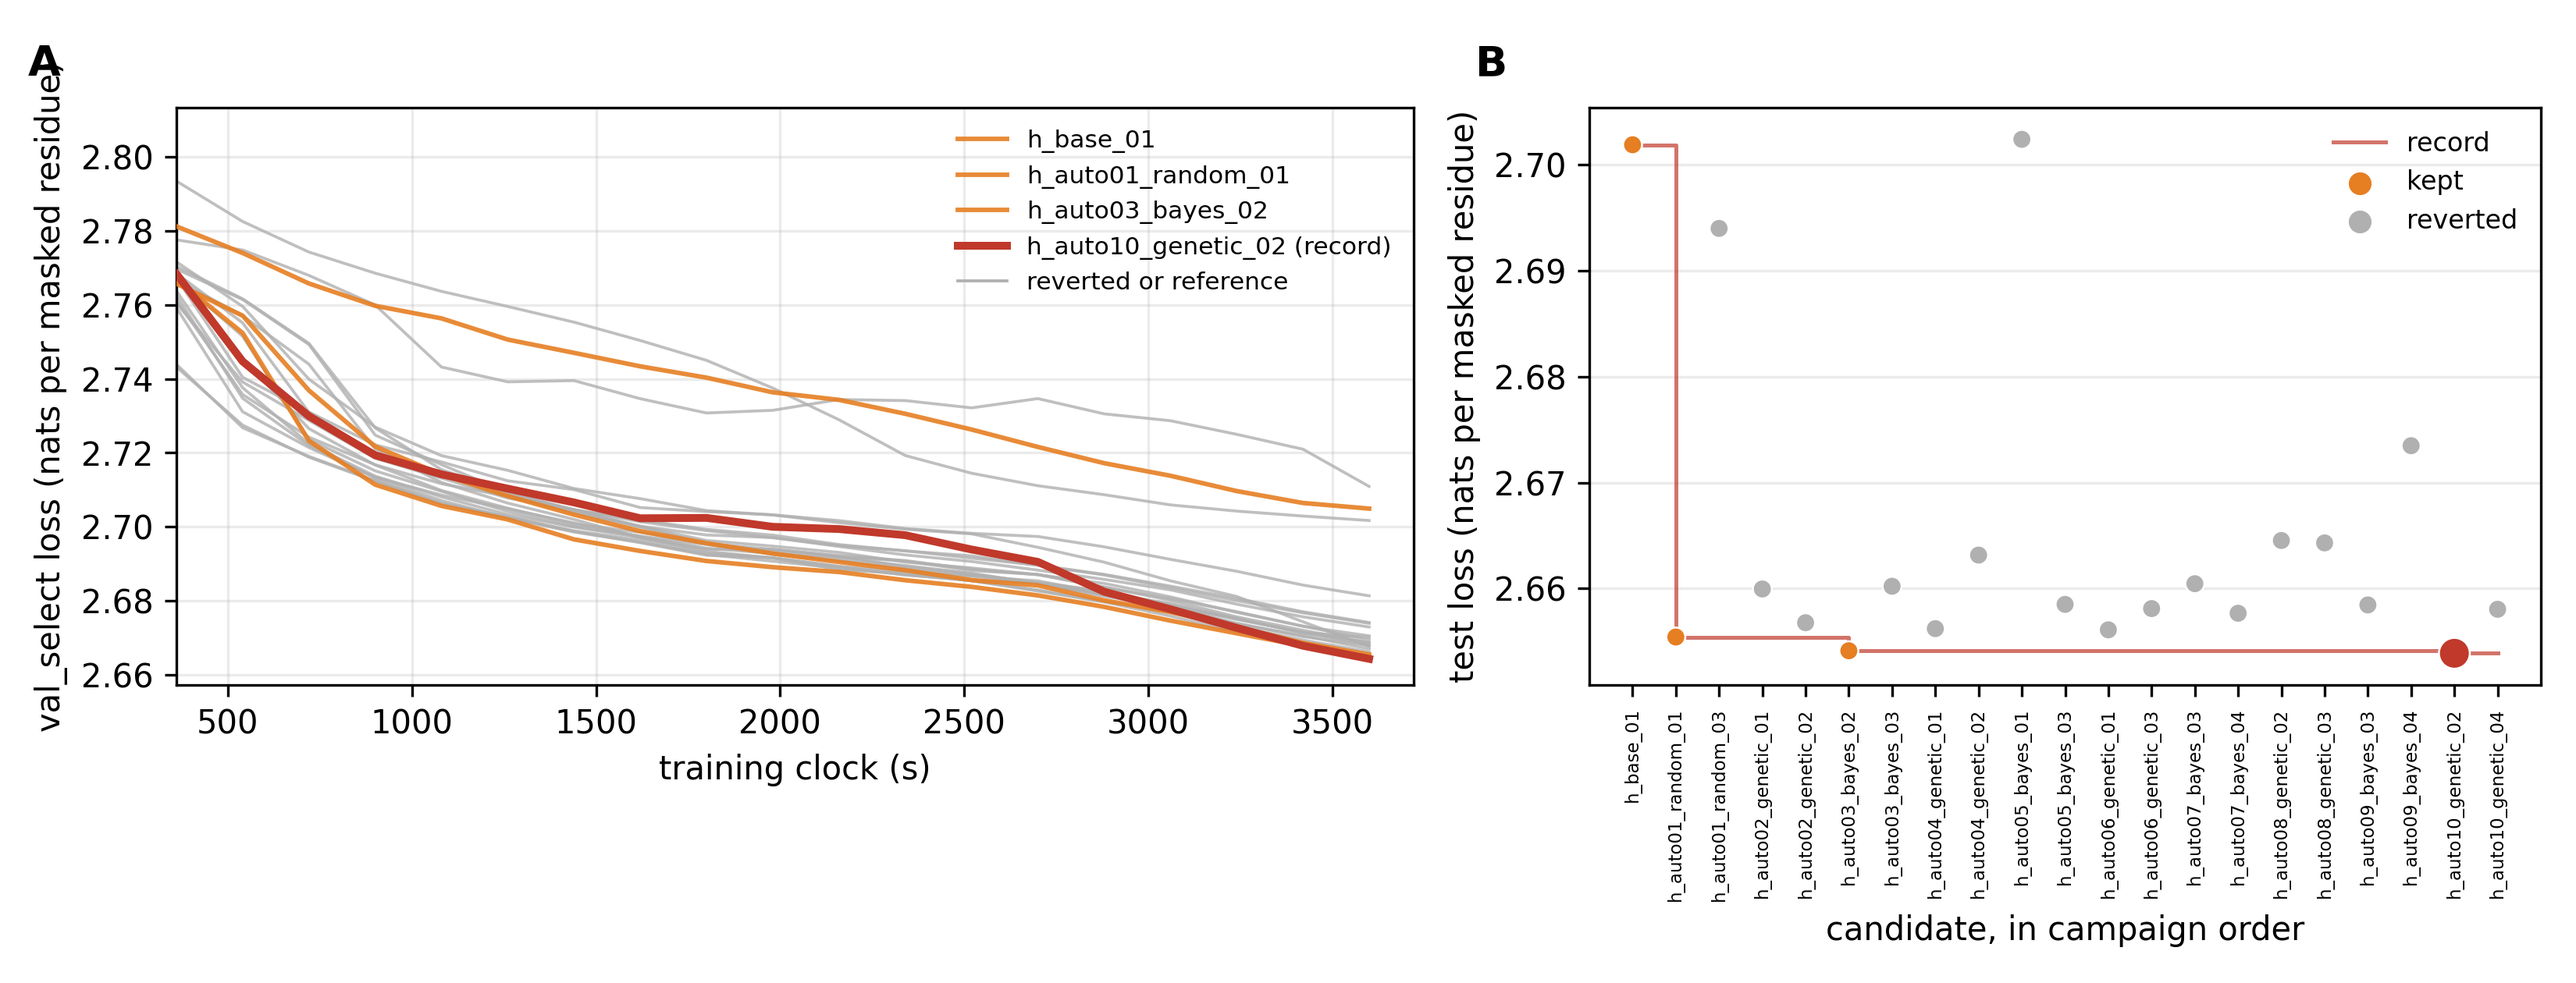
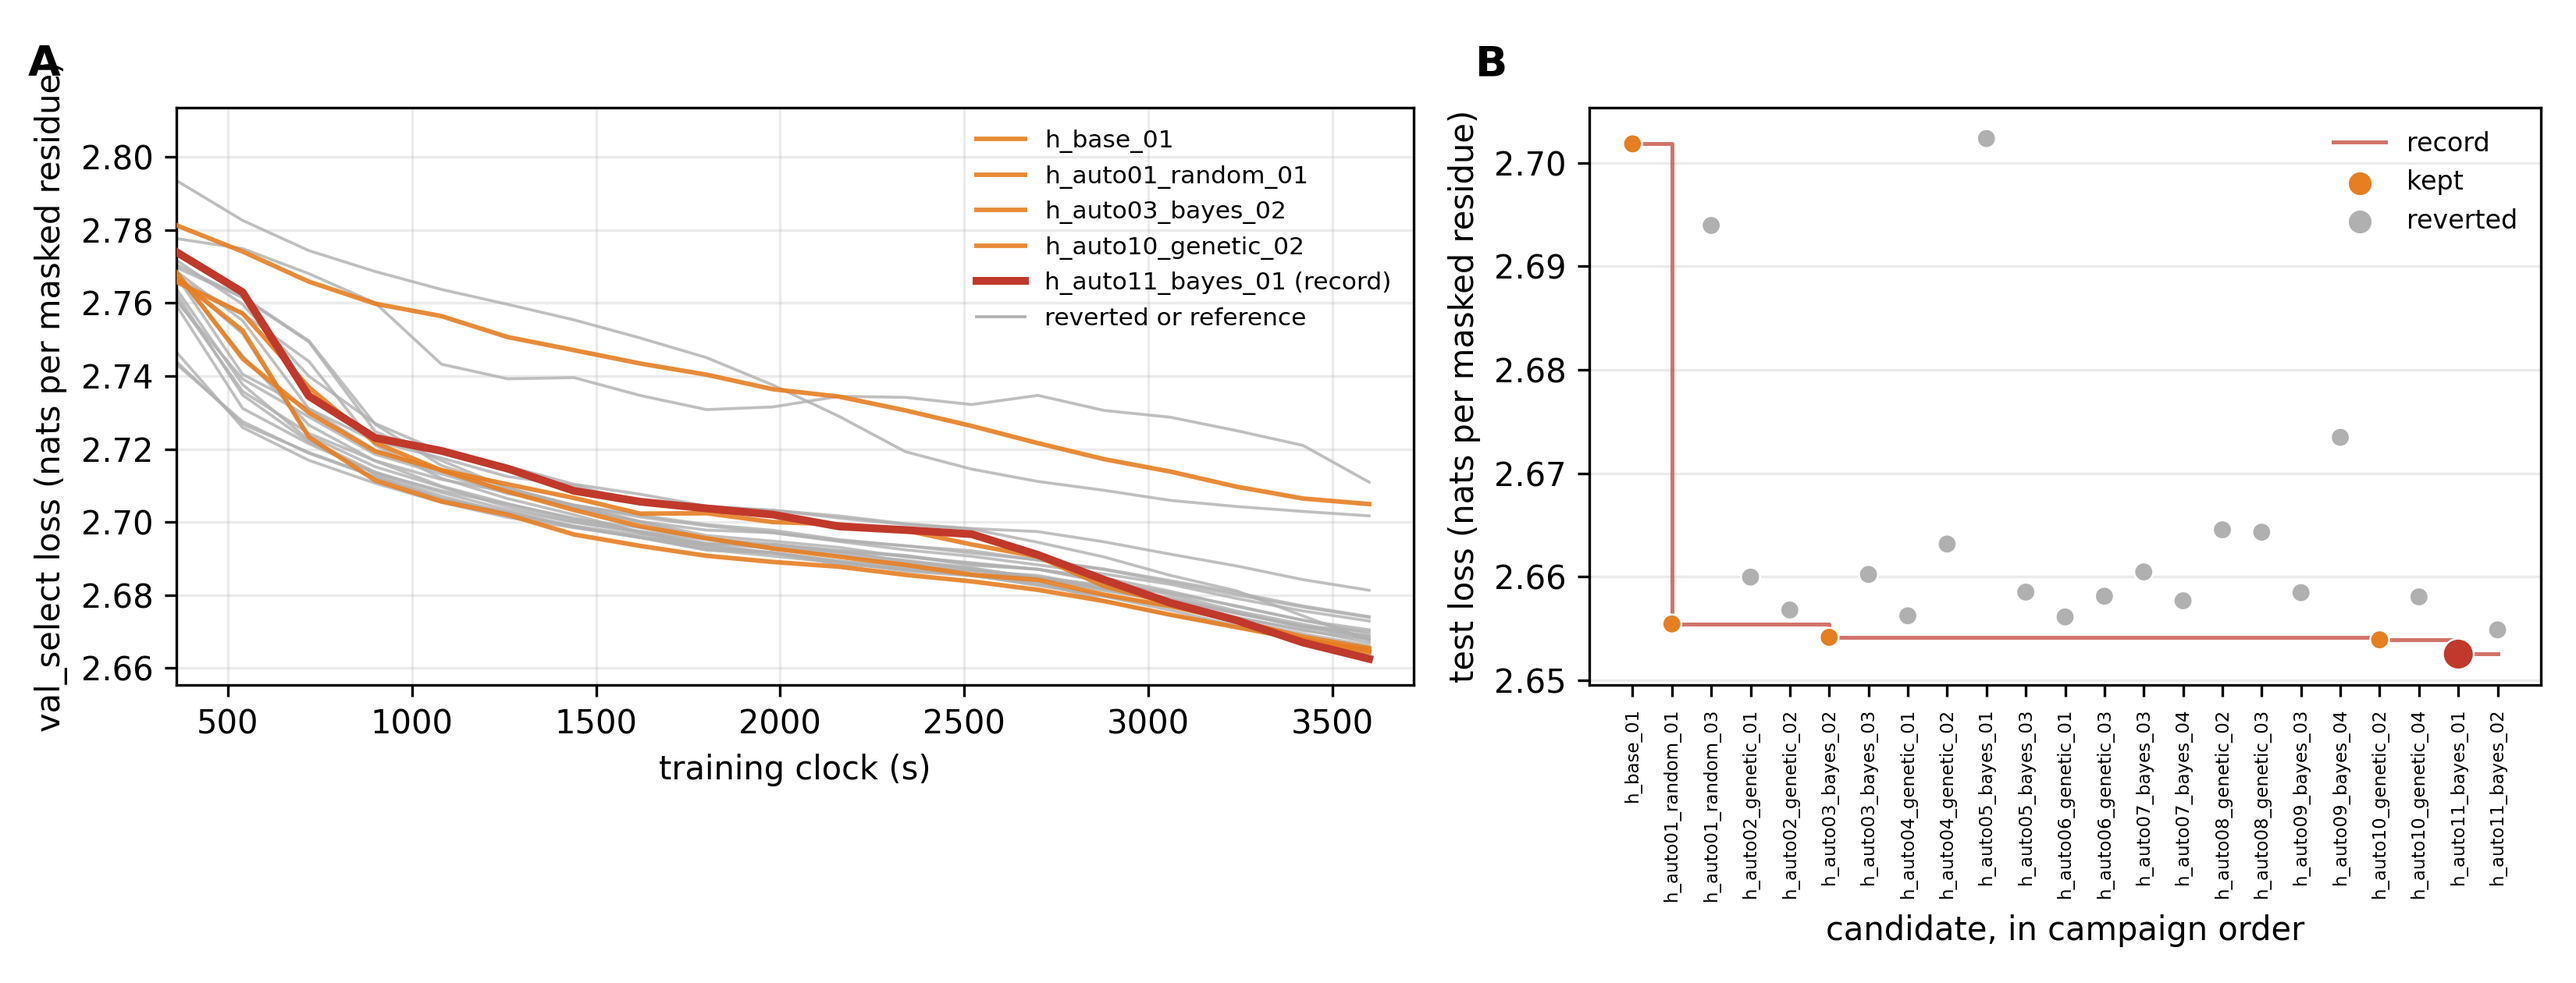
1-hour track: h_auto11_bayes_01 is the hour's record (val_select 2.6625, test 2.6525: xIELU, no key offset, no grouping loss); its genome; 23 full-hour runs on the figure

diff --git a/README.md b/README.md
@@ -186,13 +186,15 @@ search's first random draw over the open space ([`genomes/h_auto01_random_01.jso
 Muon-plus, peri-norm residuals, a mirrored U-net, a trigram table, neighbor heads, a two-layer head, a length-tempered
 curriculum, a late weight average, the entropy-weighted loss) reached `val_select` 2.6655 and test 2.6554, 0.047
 under both the hour's baseline and the 10-minute record. The genetic and Bayes proposers search from it and hold its
-neighborhood: the hour's record is a genetic child three steps from it
-([`genomes/h_auto10_genetic_02.json`](genomes/h_auto10_genetic_02.json): 6 heads of 128, a key offset of 0.25, a
-plateau-restart weight average, a one-sqrt schedule, an embedding mix of 0.14, no trigram table, 199M parameters) at
-`val_select` 2.6643 and test 2.6539, 0.0005 under the Bayes child before it
-([`genomes/h_auto03_bayes_02.json`](genomes/h_auto03_bayes_02.json), 2.6648 and 2.6541). One run resolves about
-0.003 at the hour, so the two are one model, and the seventeen full-hour runs of that family since the draw sit
-between 2.6643 and 2.6813 but for one clear loss (late SAM with a short decay timescale, 2.7109): dropping the
+neighborhood: the hour's record is a Bayes child four steps from it
+([`genomes/h_auto11_bayes_01.json`](genomes/h_auto11_bayes_01.json): 6 heads of 128, xIELU, a plateau-restart
+weight average, a one-sqrt schedule, an embedding mix of 0.14, no trigram table, 199M parameters) at `val_select`
+2.6625 and test 2.6525, 0.0018 under the genetic child before it
+([`genomes/h_auto10_genetic_02.json`](genomes/h_auto10_genetic_02.json), 2.6643 and 2.6539) and 0.0023 under the
+Bayes child before that ([`genomes/h_auto03_bayes_02.json`](genomes/h_auto03_bayes_02.json), 2.6648 and 2.6541).
+One run resolves about 0.003 at the hour, so the three records span one run's noise, and the nineteen full-hour runs
+of that family since the draw sit between 2.6625 and 2.6813 but for one clear loss (late SAM with a short decay
+timescale, 2.7109): dropping the
 mirrored U-net costs about 0.008, dropping whole-protein packing, the grouping loss and the two-layer head together
 costs nothing, the trigram table's 50M parameters buy nothing, and the rest moves the loss by less than one run's
 noise. The track's figures are its own, drawn from its own ledger:
